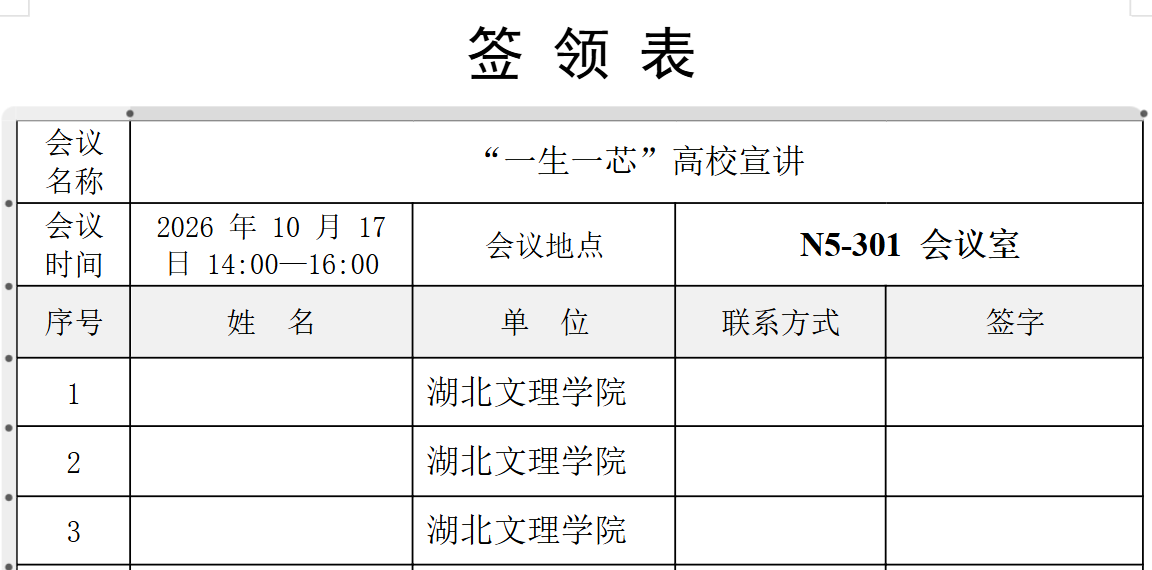
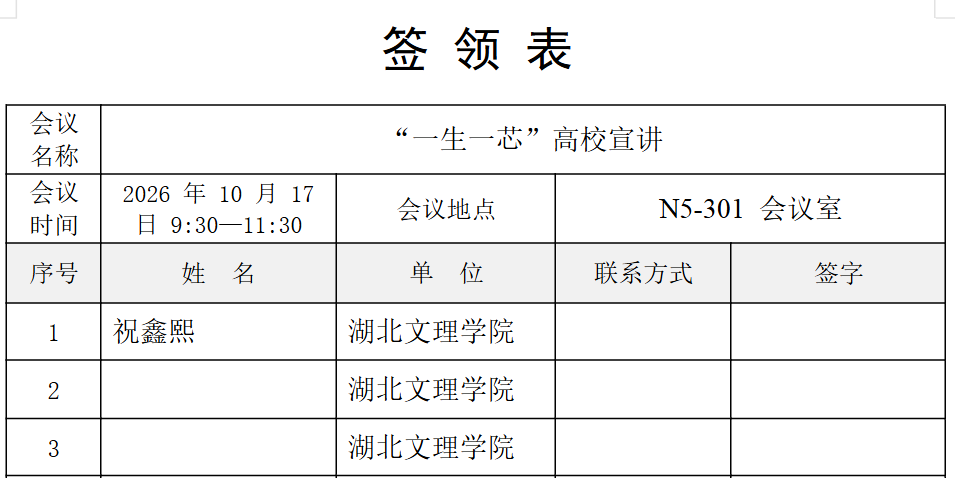
更新时间为9:30-11:30，更新签领表截图

Changed region(s): [[0.0, 0.1757, 1.0, 1.0], [0.3948, 0.0293, 0.6073, 0.1464], [0.4251, 0.41, 0.5162, 0.4686]]

diff --git a/index.html b/index.html
@@ -176,7 +176,7 @@ footer .f3{color:#6b7280;font-size:14px}
     <span class="badge">高校公益宣讲</span>
     <h1>一生<span class="green">一芯</span></h1>
     <p class="subtitle">从零开始，亲手设计一颗<br>属于你自己的 RISC-V 处理器</p>
-    <div class="date-box"><span>🗓</span><span>2026年10月17日 14:00 — 16:00</span></div>
+    <div class="date-box"><span>🗓</span><span>2026年10月17日 9:30 — 11:30</span></div>
     <div class="loc-box"><span>📍</span><span>计算机工程学院 · N5-301 会议室</span></div>
     <p class="scroll-hint">向下滑动了解更多</p>
   </div>
@@ -480,7 +480,7 @@ footer .f3{color:#6b7280;font-size:14px}
           <div class="event-time">
             <div class="small">时间</div>
             <div class="date">2026年10月17日</div>
-            <div class="time">14:00 — 16:00</div>
+            <div class="time">9:30 — 11:30</div>
           </div>
           <div class="event-loc">
             <div class="small">地点</div>
@@ -573,7 +573,7 @@ footer .f3{color:#6b7280;font-size:14px}
 <script>
 (function(){
   // ===== 倒计时 =====
-  var target = new Date('2026-10-17T14:00:00+08:00').getTime();
+  var target = new Date('2026-10-17T09:30:00+08:00').getTime();
   function pad(n){return n<10?'0'+n:''+n}
   function tick(){
     var diff = target - Date.now();
